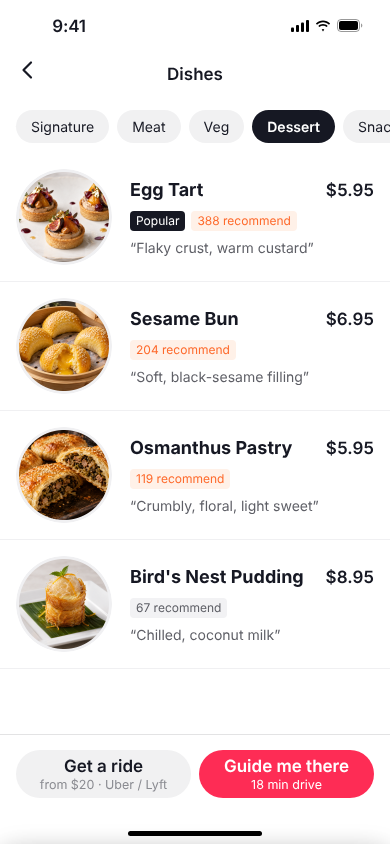
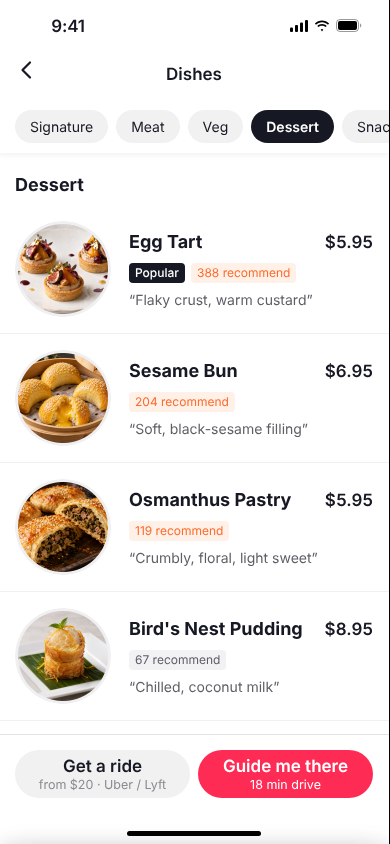
Menu as one page: category chips are anchors with scrollspy, six titled sections, duplicates kept only under Signature; same in the Dishes tab; smoke test updated
Claude-Session: https://claude.ai/code/session_01Q6z36aYFBjH3xCc6Ygpjkp

diff --git a/app.js b/app.js
@@ -613,7 +613,7 @@
   function showPlaceBody(dishes) {
     place.classList.toggle('dishes-mode',dishes);
     $('#dishesTab').hidden=!dishes;
-    if(dishes) renderTabCategory(false);
+    if(dishes&&!$('#dishesList').children.length) renderTabCategory();
     syncChrome();
   }
   function navigateTab(tab) {
@@ -638,16 +638,6 @@
     await anim(el,reduce?[{opacity:1},{opacity:0}]:[{transform:'translateX(0)'},{transform:'translateX(100%)'}],{duration:320,easing:IOS});
     show(prev.screen); el.getAnimations().forEach(a=>a.cancel());scroller.scrollTop=prev.top;S.busy=false;
   }
-  let tabCategory='Signature';
-  function renderTabCategory(animate=true) {
-    $('#dishesTab .chip-bar').innerHTML=Object.keys(MENU).map(c=>`<button data-tabcat="${c}" class="${c===tabCategory?'on':''}" aria-pressed="${c===tabCategory}">${c}</button>`).join('');
-    $('#dishesList').innerHTML=listMarkup(MENU[tabCategory]);
-    if(animate) $('#dishesList').animate([{opacity:0},{opacity:1}],{duration:D(180)});
-  }
-  $('#dishesTab .chip-bar').addEventListener('click',e=>{const b=e.target.closest('[data-tabcat]');if(!b)return;tabCategory=b.dataset.tabcat;renderTabCategory();
-    const bar=$('#dishesTab .chip-bar'),listTop=$('#dishesList').offsetTop-bar.offsetHeight;if(scroller.scrollTop>listTop)scroller.scrollTop=listTop;
-    bar.querySelector(`[data-tabcat="${tabCategory}"]`).scrollIntoView({block:'nearest',inline:'nearest',behavior:reduce?'auto':'smooth'});});
-  scroller.addEventListener('scroll',()=>{const bar=$('#dishesTab .chip-bar');if(bar)bar.classList.toggle('scrolled',place.classList.contains('dishes-mode')&&scroller.scrollTop>0);},{passive:true});
 
   /* ---------- 07 · dish detail (one page per dish, data-driven) ---------- */
   const REVIEWERS=[['Lil Nisa','img/figma/da16b.png'],['Eaternally Happy','img/figma/5c293.png'],['Vanesa Beltran','img/figma/dcbac.png'],['averysabile','img/a_avery.jpg'],['tray | chicago foodie','img/a_tray.jpg']];
@@ -696,15 +686,36 @@
     $('#dish .view-all-bottom').firstChild.textContent=`See all ${x.mentions} reviews`;
     pushPage('dish'); $('.dish-scroll').scrollTop=0; paintIcons($('#dish'));
   }
-  function openMenu() { category='Signature'; renderCategory(); pushPage('menu'); $('.menu-scroll').scrollTop=0; }
-  function renderCategory() {
-    $('.category-chips').innerHTML=Object.keys(MENU).map(c=>`<button data-category="${c}" class="${c===category?'on':''}" aria-pressed="${c===category}">${c}</button>`).join('');
-    $('#menuList').innerHTML=listMarkup(MENU[category],true);
-    $('#menuList').animate([{opacity:0},{opacity:1}],{duration:D(180)});
+  /* ---------- one-page menu: chips are anchors, sections stack (Figma 6b one page) ---------- */
+  const CATS=Object.keys(MENU);
+  const seenDish=new Set();
+  const SECTIONS=CATS.map(c=>({cat:c,items:MENU[c].filter(d=>{if(c!=='Signature'&&seenDish.has(d.name))return false;seenDish.add(d.name);return true;})}));
+  const sectionsMarkup=prefix=>SECTIONS.map(s=>`<section class="menu-sec" id="${prefix}-${s.cat}" data-cat="${s.cat}"><h2 class="menu-sec-title">${s.cat}</h2>${listMarkup(s.items,true)}</section>`).join('');
+  const chipsMarkup=(attr,active)=>CATS.map(c=>`<button ${attr}="${c}" class="${c===active?'on':''}" aria-pressed="${c===active}">${c}</button>`).join('');
+  function setChip(bar,attr,cat){bar.querySelectorAll('button').forEach(b=>{const on=b.getAttribute(attr)===cat;b.classList.toggle('on',on);b.setAttribute('aria-pressed',on);});const el=bar.querySelector(`[${attr}="${cat}"]`);if(el)el.scrollIntoView({block:'nearest',inline:'nearest',behavior:reduce?'auto':'smooth'});}
+  // generic: wire a chip bar + scroller + section prefix
+  function anchorMenu({bar,attr,scrollEl,prefix,stickyH}){
+    let lock=0;
+    bar.addEventListener('click',e=>{const b=e.target.closest(`[${attr}]`);if(!b)return;const cat=b.getAttribute(attr);const sec=$('#'+prefix+'-'+cat);if(!sec)return;lock=Date.now()+700;setChip(bar,attr,cat);
+      scrollEl.scrollTo({top:sec.offsetTop-stickyH(),behavior:reduce?'auto':'smooth'});});
+    scrollEl.addEventListener('scroll',()=>{if(Date.now()<lock||(scrollEl===scroller&&!place.classList.contains('dishes-mode')))return;const y=scrollEl.scrollTop+stickyH()+8;let cur=CATS[0];$$('.menu-sec',scrollEl).forEach(sec=>{if(sec.offsetTop<=y)cur=sec.dataset.cat;});if(scrollEl.scrollTop+scrollEl.clientHeight>=scrollEl.scrollHeight-4)cur=CATS[CATS.length-1];if(!bar.querySelector('.on')||bar.querySelector('.on').getAttribute(attr)!==cur)setChip(bar,attr,cur);},{passive:true});
   }
-  $('.category-chips').addEventListener('click',e=>{const b=e.target.closest('[data-category]');if(!b)return;category=b.dataset.category;renderCategory();$('.menu-scroll').scrollTop=0;$(`.category-chips [data-category="${category}"]`).scrollIntoView({block:'nearest',inline:'nearest',behavior:reduce?'auto':'smooth'});});
-  // main section tabs removed from the menu page (Figma 6b): header shows back + 'Dishes' only
+  // 6b · pushed menu page
+
+  $('.category-chips').innerHTML=chipsMarkup('data-category','Signature');
+  $('#menuList').innerHTML=sectionsMarkup('m');
+  function openMenu(cat='Signature') { pushPage('menu'); const sec=$('#m-'+cat); $('.menu-scroll').scrollTop=sec?Math.max(0,sec.offsetTop-$('.menu-sticky').offsetHeight):0; setChip($('.category-chips'),'data-category',cat); }
+  anchorMenu({bar:$('.category-chips'),attr:'data-category',scrollEl:$('.menu-scroll'),prefix:'m',stickyH:()=>$('.menu-sticky').offsetHeight});
   $('.menu-scroll').addEventListener('scroll',()=>$('.menu-sticky').classList.toggle('scrolled',$('.menu-scroll').scrollTop>0),{passive:true});
+  // 6a · Dishes tab inside the POI sheet
+  function renderTabCategory() {
+    $('#dishesTab .chip-bar').innerHTML=chipsMarkup('data-tabcat','Signature');
+    $('#dishesList').innerHTML=sectionsMarkup('t');
+  }
+  anchorMenu({bar:$('#dishesTab .chip-bar'),attr:'data-tabcat',scrollEl:scroller,prefix:'t',stickyH:()=>$('#dishesTab .chip-bar').offsetHeight});
+  scroller.addEventListener('scroll',()=>{const bar=$('#dishesTab .chip-bar');if(bar)bar.classList.toggle('scrolled',place.classList.contains('dishes-mode')&&scroller.scrollTop>0);},{passive:true});
+
+  /* ---------- 07 · dish detail (one page per dish, data-driven) ---------- */
   const NEARBY=[['Masterpiece','Sichuan · Duluth · $$','4.6 (812)','6.2 mi','Also does dry pot','f4a8d.png'],["Gu’s Kitchen",'Sichuan · Chamblee · $$','4.4 (355)','2.3 mi','Closer · open now','a7c8c.png'],['Chong Qing Hot Pot','Hot pot · Duluth · $$$','4.5 (240)','7.8 mi','Group-friendly','09f0c.png'],['Tasty China II','Sichuan · Norcross · $$','4.3 (510)','8.9 mi','Famous for whole fish','984b6.png'],['Northern China Eatery','Dongbei · Doraville · $','4.5 (1200)','0.4 mi','Walkable · dumplings','09bf9.png'],['Bo Bo Garden','Cantonese · Doraville · $$','4.4 (430)','0.9 mi','Late night','f0bfd.png']];
   let nearbyCount=0,loading=false;
   function addNearby(n){for(let i=0;i<n;i++){const d=NEARBY[nearbyCount++%NEARBY.length];$('#nearbyRows').insertAdjacentHTML('beforeend',`<button class="nearby-row" data-act="demo"><img src="img/figma/${d[5]}" alt="${d[0]}"><div><b>${d[0]}</b><p>${d[1]}</p><p>${ICON.star} ${d[2]} · ${d[3]}</p><small>${d[4]}</small></div><span>›</span></button>`);}}

diff --git a/styles.css b/styles.css
@@ -443,3 +443,6 @@ body.mouse #phone,body.mouse #phone *{cursor:none!important}
 .d-photos{display:flex;gap:6px}.d-photos div{position:relative;width:104px;height:104px;border-radius:8px;background-size:cover;background-position:center;overflow:hidden}
 .d-photos .more{position:absolute;right:6px;bottom:6px;display:flex;align-items:center;gap:2px;background:rgba(0,0,0,.55);color:#fff;font-size:11px;font-weight:500;border-radius:6px;padding:4px 8px}.d-photos .more svg{width:12px;height:12px}.d-photos .more svg path{stroke:#fff}
 #dish .view-all-bottom{margin-top:2px;font-size:13px;font-weight:500}
+
+.menu-sec-title{font-size:18px;line-height:24px;font-weight:700;padding:20px 16px 8px}
+#menuList .menu-sec:first-child .menu-sec-title{padding-top:12px}
